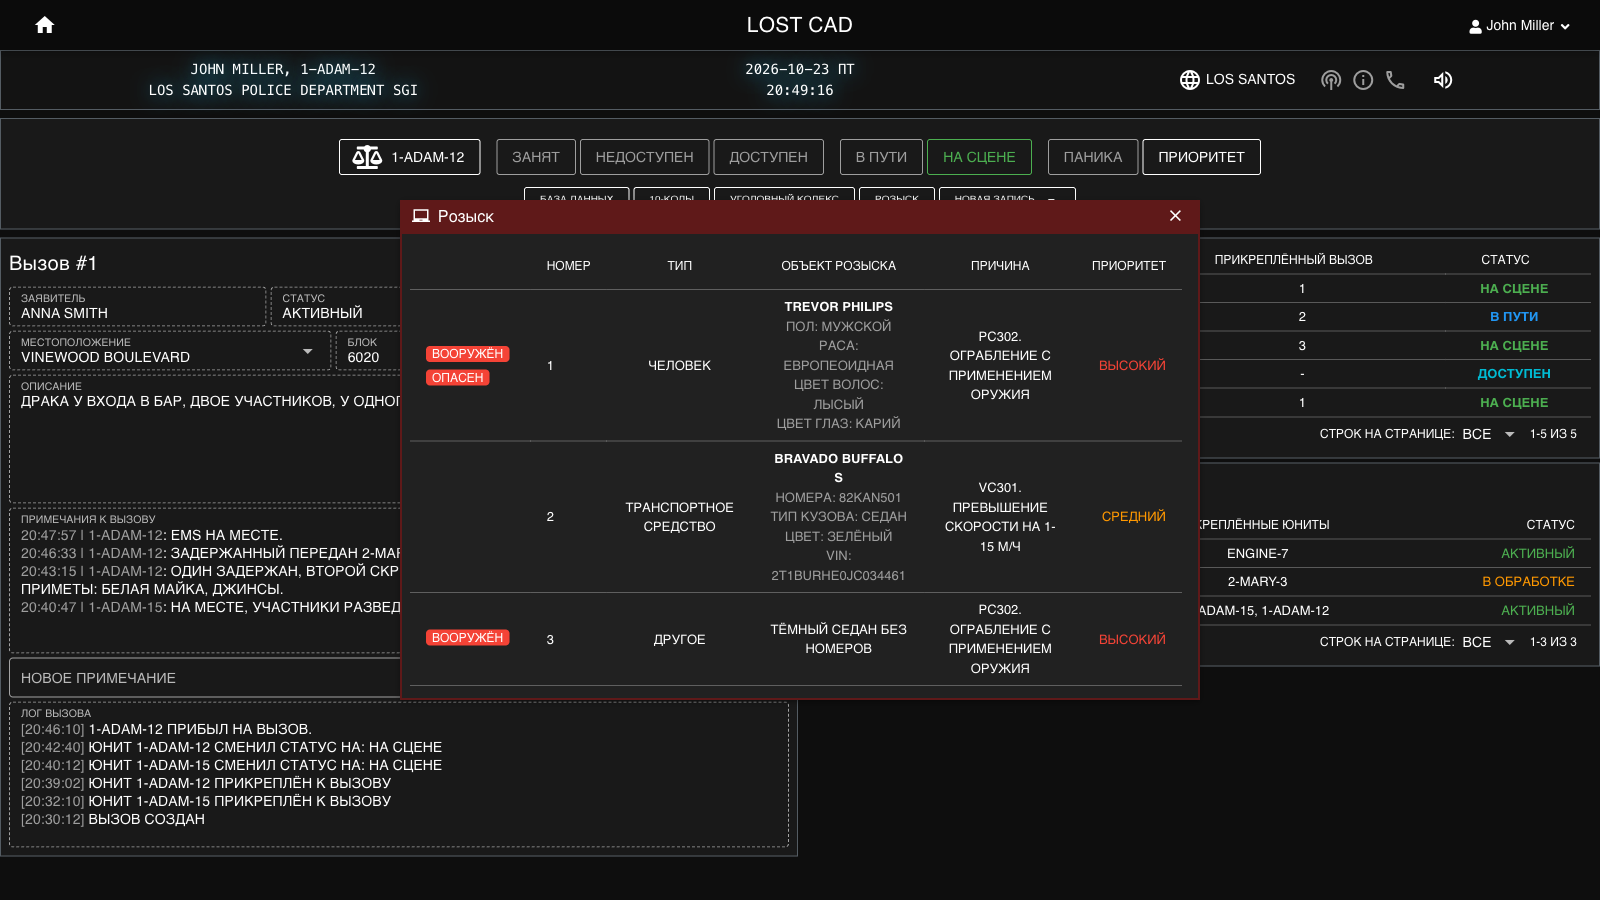
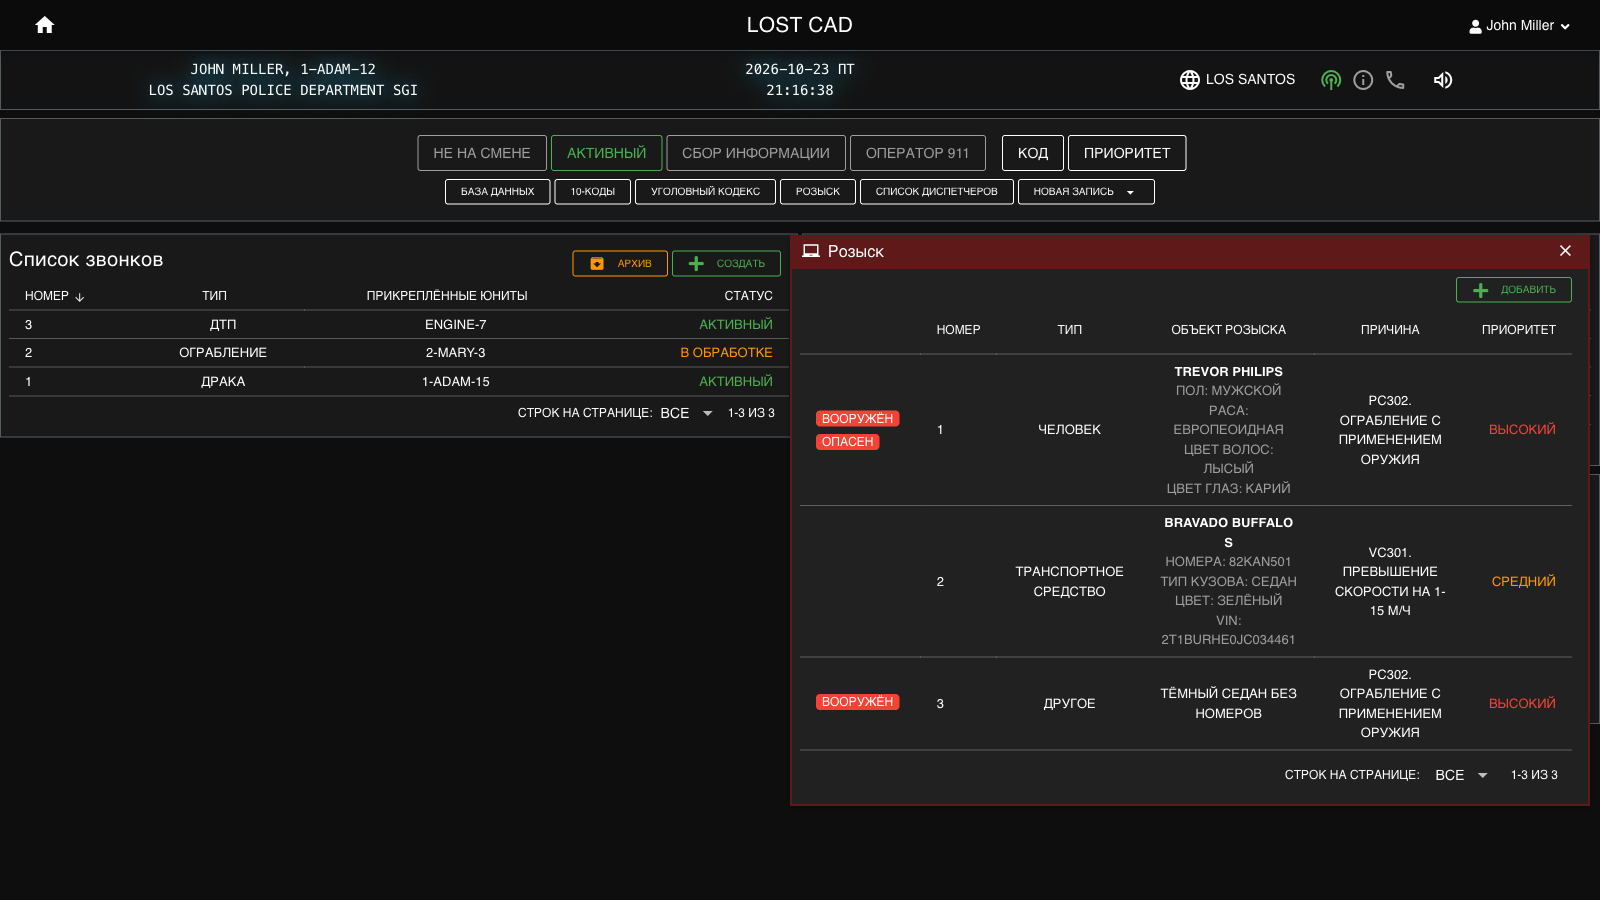
docs: add vehicle, citation and department screenshots

diff --git a/README.md b/README.md
@@ -9,9 +9,11 @@ A CAD/MDT (Computer Aided Dispatch / Mobile Data Terminal) for a GTA roleplay se
 | | |
 |---|---|
 | ![Dispatch](docs/screenshots/03-dispatch.png) Dispatcher workstation | ![Call](docs/screenshots/07-call.png) Call card |
-| ![BOLOs](docs/screenshots/04-bolos.png) BOLOs | ![Lookup](docs/screenshots/05-lookup.png) Database lookup |
+| ![BOLOs](docs/screenshots/04-bolos.png) BOLOs | ![Lookup](docs/screenshots/05-lookup.png) Name lookup with records |
+| ![DMV](docs/screenshots/10-dmv.png) Plate lookup and vehicle card | ![Citation](docs/screenshots/11-citation.png) Citation |
 | ![Arrest](docs/screenshots/06-arrest.png) Arrest report | ![Civilian](docs/screenshots/08-civilian.png) Civilian character |
-| ![Penal code](docs/screenshots/09-penal-code.png) Penal code editor | ![Home](docs/screenshots/01-home.png) Department selection |
+| ![Penal code](docs/screenshots/09-penal-code.png) Penal code editor | ![Department](docs/screenshots/12-department.png) Department editor with forum groups |
+| ![Home](docs/screenshots/01-home.png) Department selection | |
 
 ## Features
 
